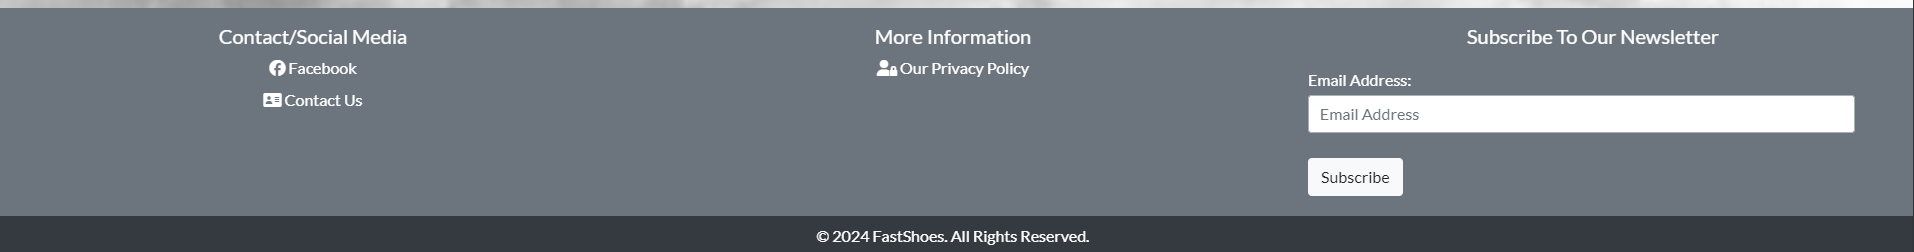
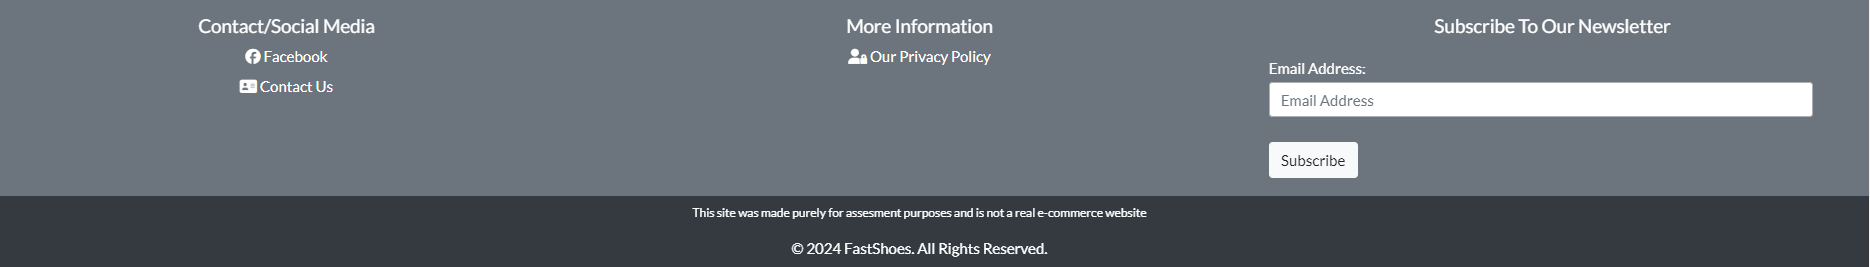
Feat: Add content to read me

diff --git a/templates/includes/footer.html b/templates/includes/footer.html
@@ -49,6 +49,8 @@
                 </div>
             </div>
             <div class="container-fluid text-center py-2 bg-dark all-rights-box">
+                <p class="small">This site was made purely for assesment purposes and is not a real e-commerce website
+                </p>
                 <p class="mb-0">&copy; {% now "Y" %} FastShoes. All Rights Reserved.</p>
             </div>
         </div>

diff --git a/TESTING.md b/TESTING.md
@@ -220,7 +220,7 @@ The HTML code for the project was validated using the [W3C HTML Validator.](http
 
 ![Python Test](docs/readme/python-test.png)
 
-During the Code Institute Python Linter test, I received no errors from any of my Python files.
+During the Code Institute Python Linter test, I encountered no errors in any of my Python files. However, I noticed that some of Django's built-in Python files included lines longer than 80 characters. Despite this, I chose not to modify them, as Django recommends against shortening these lines.
 
 [Python Linter](https://pep8ci.herokuapp.com/)
 

diff --git a/README.md b/README.md
@@ -342,7 +342,9 @@ Authenticated users on FastShoes possess significant control over various key fu
 
 ##### Product pages
 
-![](docs/readme/features/)
+![All Products](docs/readme/features/all-products-page.png)
+
+![Product View](docs/readme/features/product-view-page.png)
 
 ##### User pages
 
